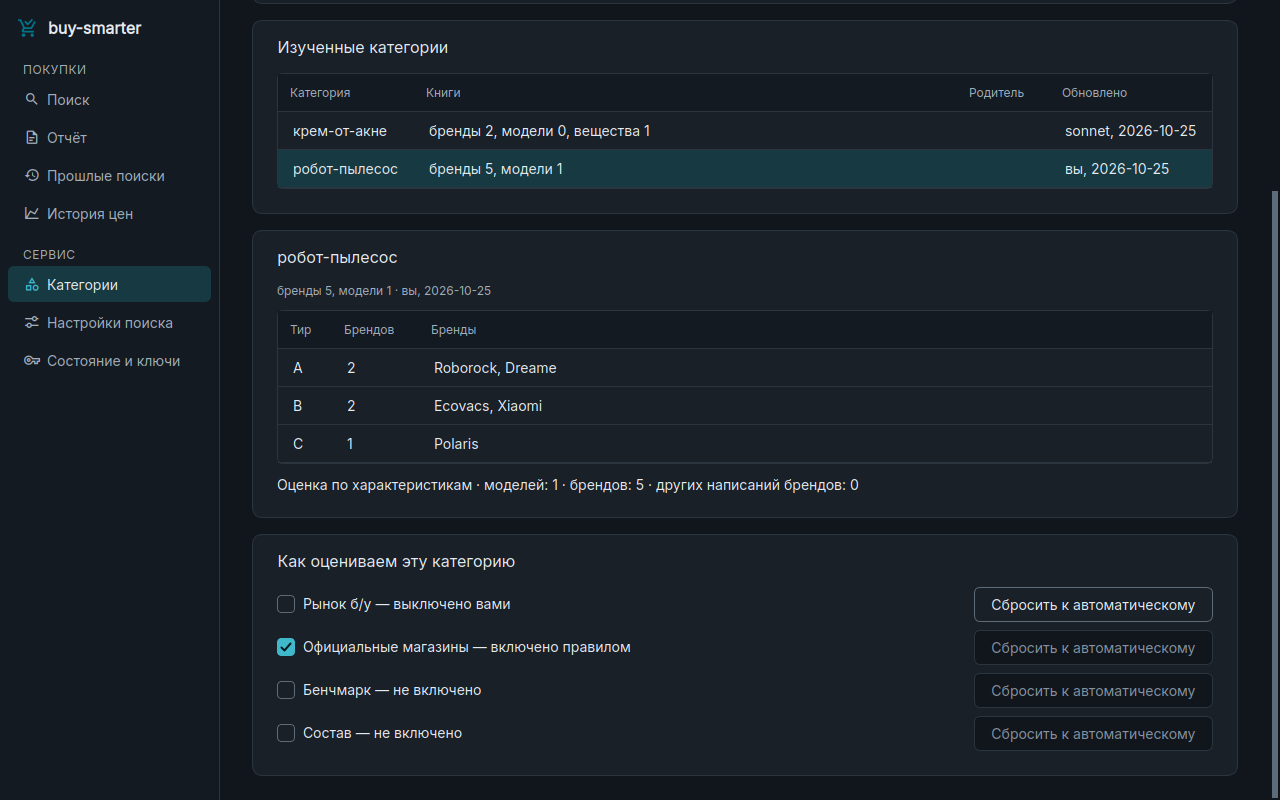
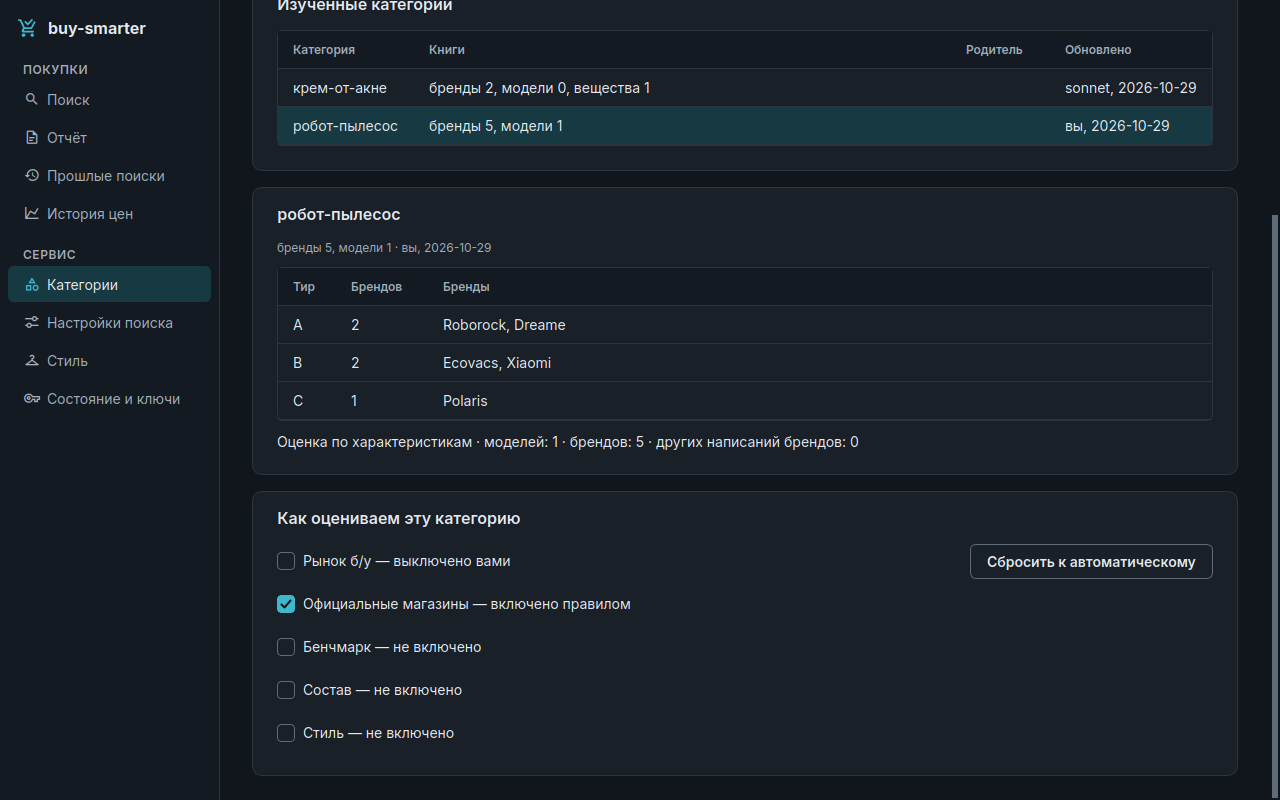
docs: desktop screenshots and DESIGN.md match the current GUI
Real bold, the report filled and fitting 960x640, muted notes, the clarify answers as a list,
resets only after a choice. DESIGN.md records the rules the fixes settled: scroll instead of
squeeze, a 160px floor for a stretched column, the three best-pick figures, empty states.

diff --git a/DESIGN.md b/DESIGN.md
@@ -28,29 +28,41 @@ Every text/background pair is held to WCAG AA 4.5:1 by `tests/gui/test_theme.py`
 
 ## Components
 
-- Sidebar (220px): the app name with its cart icon, then screens in two groups, ПОКУПКИ
-  (Поиск, Отчёт, Прошлые поиски, История цен) and СЕРВИС (Настройки поиска, Состояние и
-  ключи). Group labels are 12/600 muted caps; items carry an 18px icon.
+- Sidebar (220px): the app name with its cart icon (accent, redrawn on a scheme change), then
+  screens in two groups, ПОКУПКИ (Поиск, Отчёт, Прошлые поиски, История цен) and СЕРВИС
+  (Категории, Настройки поиска, Стиль, Состояние и ключи). Group labels are 12/600 muted caps;
+  items carry an 18px icon.
 - Search screen: a 28/700 heading with a muted hint, then one form card (`QFrame#card`,
   radius 10): the 16px query with a search icon, city and budget side by side under 12px
   captions, the marketplaces with their live status, AI on the right, progress and buttons
   at the bottom with Найти last. Under it, up to three recent distinct queries from the saved
-  reports, each with a flat accent «Повторить».
+  reports, each with a flat accent «Повторить». A clarifying question replaces them: its
+  answers are a left-aligned list at regular weight, then the own-answer field.
 - Every field (line edit, combo box, spin box) is 36px tall.
 - Cards are `QGroupBox`es: surface, 1px border, radius 10, the 16/600 title inside the card
   at the top left; a card's own layout has zero margins (the QSS padding frames it).
 - Every screen opens with a 28/700 heading: the search asks «Что ищем?», the report shows the
-  query with the parsed constraints under it, the others show their nav title.
+  query with the parsed constraints under it, the others show their nav title. An empty state
+  keeps the heading and puts one muted line under it.
+- Everything fits the minimum window (960×640): a screen that does not fit scrolls instead of
+  squeezing its rows.
 - Tables: no vertical grid lines, rows ruled by a 1px border, left-aligned 12/600 headers.
 - One primary button per screen (`primary="true"`): Найти, Сохранить, Показать историю,
   Открыть на маркетплейсе. Everything else is secondary.
 - Statuses are labels with `state` = done/ok (green), running (accent), failed/missing (red),
   skipped/waiting (muted), warning (amber); set with `theme.set_state`.
 - Tables show every row (`gui/tables.py`); the page scrolls, never the table. Headers are
-  12/600 muted on the sidebar tone.
-- Axis scores pair the CLI's `score/max` text with an 8px bar, 160px wide.
+  12/600 muted on the sidebar tone, indented so cell text sits under them. A stretched text
+  column (a title) keeps at least 160px; past that the table scrolls sideways. The photo grid
+  on «Стиль» follows the same rule: as tall as its rows.
+- The report's best pick shows three figures at 24px with 12px captions on one line: the score
+  (700, accent), the confidence and the price (600). «Настроить» under the heading is an inline
+  link on the heading's vertical.
+- A category switch offers «Сбросить к автоматическому» only once the user has made a choice.
+- Axis scores pair the CLI's `score/max` text with an 8px bar, 160px wide, on a border-tone
+  track (visible on the dark card).
 - Past searches render the saved markdown in the theme (`style_report`): 20/16 bold headings,
-  accent links, ruled tables.
+  accent links, ruled tables; `_note_` lines muted, long hashes and URLs wrapped.
 - Light or dark follows the OS and switches live.
 
 ## Rules
